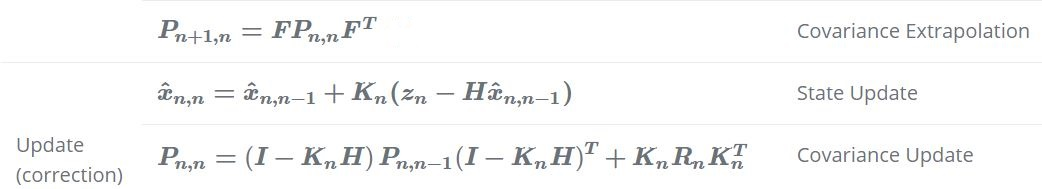
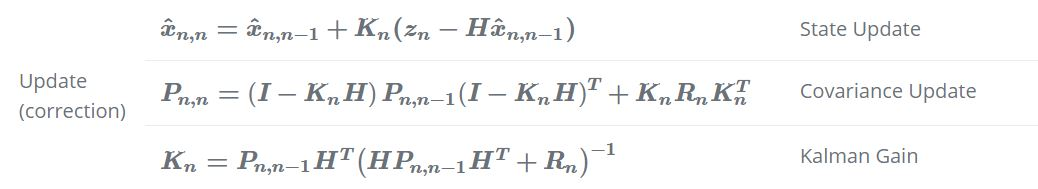
Readme completed

diff --git a/assets/index.html b/assets/index.html
@@ -27,24 +27,24 @@
 <form id="form">
     <div>
         <div>Initial Guess (Position in meters, Velocity in m/s)</div>
-        <div><input id="initial_guess_position" value="50"/> <input id="initial_guess_velocity" value="15"/></div>
+        <div><input id="initial_guess_position" value="0"/> <input id="initial_guess_velocity" value="4"/></div>
     </div>
 
     <div>
         <div>Initial State Covariance Matrix</div>
-        <div><input id="initial_guess_pos_variance" value="400"/> <input id="initial_guess_covariance1" value="0"/></div>
-        <div><input id="initial_guess_covariance2" value="0"/> <input id="initial_guess_vel_variance" value="100"/></div>
+        <div><input id="initial_guess_pos_variance" value="1"/> <input id="initial_guess_covariance1" value="0"/></div>
+        <div><input id="initial_guess_covariance2" value="0"/> <input id="initial_guess_vel_variance" value="2"/></div>
     </div>
 
     <div>
         <div>Delta Time in seconds</div>
-        <div><input id="delta_time" value="5"/></div>
+        <div><input id="delta_time" value="10"/></div>
     </div>
 
     <div>
         <div>Measurement Covariance Matrix</div>
-        <div><input id="measurement_pos_variance" value="25"/> <input id="measurement_covariance1" value="0"/></div>
-        <div><input id="measurement_covariance2" value="0"/> <input id="measurement_vel_variance" value="3"/></div>
+        <div><input id="measurement_pos_variance" value="100"/> <input id="measurement_covariance1" value="0"/></div>
+        <div><input id="measurement_covariance2" value="0"/> <input id="measurement_vel_variance" value="1"/></div>
     </div>
 
     <div>
@@ -54,11 +54,11 @@
             <button id="add" type="button">+</button>
         </div>
         <div id="measurements">
-            <div><input value="128"/> <input value="13"/></div>
-            <div><input value="201"/> <input value="11"/></div>
-            <div><input value="277"/> <input value="14"/></div>
-            <div><input value="349"/> <input value="16"/></div>
-            <div><input value="423"/> <input value="16"/></div>
+            <div><input value="49"/> <input value="3.8"/></div>
+            <div><input value="71"/> <input value="4.6"/></div>
+            <div><input value="128"/> <input value="3.4"/></div>
+            <div><input value="173"/> <input value="3.8"/></div>
+            <div><input value="209"/> <input value="4.2"/></div>
         </div>
     </div>
 

diff --git a/src/visualization.py b/src/visualization.py
@@ -7,7 +7,7 @@ def plot_output(plot_estimates, plot_uncertainties, plot_measurements):
 
     plt.style.use('seaborn')
     fig, axs = plt.subplots(4, 1, figsize=(10, 20), sharex='all',
-                            gridspec_kw={'height_ratios': [3.5, 1, 1, 1]}, constrained_layout=True)
+                            gridspec_kw={'height_ratios': [2, 1.5, 1, 1]}, constrained_layout=True)
     fig.suptitle("Kalman filter simulation output", fontsize=25)
 
     axs[0].plot(steps, plot_estimates[0], linestyle=':', marker='o', markersize=6, color='black',

diff --git a/Readme.md b/Readme.md
@@ -1,17 +1,17 @@
-# Kalman Filter
+# Unidimensional Kalman Filter Simulation
 The Kalman filter is a sequential estimation process that provides an optimal estimate 
 of the evolution of a system, given noisy measurements and a limited knowledge about the system. 
-The standard Kalman filter is designed for linear systems and is now widely 
+The standard filter is designed for linear systems and is now widely 
 used in many different applications, including Tracking Targets, navigation systems and much more.
+For simplicity, this particular simulation concerns the application of the kalman filter in 
+a one-dimensional system.
 
 ## Getting started
-The simulation can be used with the following requirements:
+The following requirements are needed to start the unidimensional Kalman filter simulation program:
 * Python3
 * Miniconda
 
-(It could work with Anaconda but it was not tested).
-
-To start the simulation, execute the following commands:
+The program is executed with the following commands:
 
 ```shell
 # Clone the repository
@@ -26,9 +26,28 @@ conda activate kalman
 python src/main.py
 ```
 
-After main, click on the link  (http://127.0.0.1:5000/) shown in console.
+The link shown in the console (http://127.0.0.1:5000/) opens a web page   
+with an interface needed to set the simulation parameters.
 
-# descrivere l'interfaccio
+<img src="image_equations/interface.JPG" />
+
+The required parameters are:
+* Initial Guess of Position and velocity,
+* Initial State Covariance Matrix,
+* Delta Time,
+* Measurements of Position and velocity, 
+* Measurement Covariance Matrix.
+
+(Details on the operation of the kalman filter and parameter settings 
+are given in the following documentation). 
+
+The number of measurements can vary from a minimum of 5: the (+) button adds more measurements
+while the (-) button removes them. To restore the default parameters, press the reset button.
+ 
+The simulation can be run by pressing the start button: the output is a plot showing 
+the estimated position, speed and their uncertainties. 
+
+It is important to make sure that none of the boxes are empty, before starting the simulation. 
 
 ### Tests
 
@@ -42,79 +61,95 @@ To run the test suite, use the following command:
 ```
 
 
-## Introduction
+## Kalman Filter Introduction
 Many systems are equipped with different sensors that measure various parameters of interest, typically 
 referred to as states. A sensor specifically produces measurements containing some uncertainty, so
 the standard Kalman filter combines all available information about a 
-linear dynamic system, both its dynamics model and any 
+linear dynamic system, both its dynamic model and any 
 measurements, into an optimal estimate of the states. All estimated states of the system 
-form the estimated state vector (X).
+form the estimated state vector (x).
 
 The key to a Kalman filter is that it also tracks an estimate of the uncertainty 
 associated with a state, in addition to providing an estimate of that state. The uncertainty 
-can be defined by a matrix known as the state covariance matrix (P), that combines the variances 
-associated with each of the state estimates and the correlation between the errors in the 
+can be defined by a matrix known as the state covariance matrix (P), that consists of the variances 
+associated with each of the state estimates as well as the correlation between the errors in the 
 state estimates.
 
-Thus, the Kalman filter is intended to optimize the estimate of the state vector, provided the state 
-covariance matrix, the system dynamic model, and noisy measurements (z) with their associated 
-measurement covariance matrix (R). This is achieved through a continuous two-step process: 
+Thus, the Kalman filter is designed to optimize the estimate of the state vector, provided 
+the system dynamic model and noisy measurements with their associated 
+measurement covariance matrix. This is achieved through a continuous two-step process: 
 1. propagate the state and covariance with the dynamic model from one time step to the next,
 2. perform a measurement update at each time step.
 
-During the propagation process, a mathematical model is applied over a specified period of time 
+###### Focus on Notation: 
+In the following equations, the State Vector and Estimate Uncertainty have two subscripts:
+* the first one corresponds to the time step of the estimate,
+* the second one is the time step of the last measurement considered to provide the same estimate.
+These two subscripts together identify which estimates have already been updated.
+
+Example:
+(n,n) indicates the estimate at time step n, updated with the measurement at the same time step.
+(n+1,n) indicates the predicted estimate at time step n+1, prior to the update step. 
+
+#### Propagate Step
+During the propagate step, a mathematical model is applied over a specified period of time 
 to predict the next state vector and state covariance matrix of the system. This model, implemented
-in the state transition matrix (F), defines how the state vector changes over time. In this step, 
+in the state transition matrix (F), defines how the state vector changes over time. So, 
 the next state vector and state covariance matrix can be predicted using the following equations, 
 with n indicating the current time step: 
 
 <img src="image_equations/prediction_equation.JPG" />
 
-* X  =  State Vector
-* P  =  Estimate Uncertainty
-* F  =  State Transition Matrix
+* X  =  State Vector,
+* P  =  State Covariance Matrix,
+* F  =  State Transition Matrix.
 
-(Notice the State Vector and Estimate Uncertainty have two subscripts. The first one corresponds
-to the time step of the estimate, while the second one is the time step of the last
-measurement considered in the same estimate).
-
-
+#### Update Step
 The propagation step is followed by the update step, which corrects the prediction of the 
 state vector and state covariance matrix with all available measurement data, in order to provide
 the best estimate of these parameters. Each of the measurements taken from a sensor is stored in 
-a measurement vector (Z), which typically requires a conversion in order to be compared to a state.
-The observation matrix (H) converts the state vector of the system (X) into the measurement vector 
-(Z) using linear transformations:
+a measurement vector (z), which typically requires a conversion in order to be compared to the state vector.
+The observation matrix (H) is used to convert the measurement vector of the system into the state vector 
+using linear transformations:
 
-<img src="image_equations/measurement_equation.JPG" />
+<img src="image_equations/measurement_equation.JPG" /> 
+(n indicates the time step)
 
-where n indicates the time step.
+* Z  =  Measurement Vector,
+* X  =  State Vector,
+* H  =  Observation Matrix.
 
-The Kalman filter assumes that the measurement errors in the system are Gaussian and zero-mean.
-The uncertainty in each of the measurements is defined by the measurement covariance matrix (R).
+The uncertainty in each of the measurements is defined by the measurement covariance matrix (R):
+the Kalman filter assumes that the measurement errors in the system are Gaussian and zero-mean.
 Once the measurement vector, observation matrix, and measurement covariance matrix 
 are available, the propagated state vector and state covariance matrix can be corrected 
 with this measurement information to provide an updated estimate of the states and state covariance.
 The combination of measurements and predictions requires a matrix known as the Kalman gain (K),  
 in order to weight the measurements by comparing the uncertainty of the measurement
-vector (R) with the current uncertainty of the state vector (P). The Kalman gain is designed 
-such that it minimizes the variance of the state estimates.
+vector with the current uncertainty of the state vector (predicted at the previous state). 
+The Kalman gain is designed such that it minimizes the variance of the state estimates.
 The following equations describe the update step, with n corresponding to the current time step:
 
 <img src="image_equations/update_equation.JPG" />
 
-(As in the propagation step, the State Vector and Estimate Uncertainty have two subscripts. 
-The first one refers to the time step of the estimate, while the second one is the time step 
-of the last measurement considered in the same estimate).
+* Z  =  Measurement Vector,
+* R  =  Measurement Covariance Matrix,
+* X  =  State Vector,
+* P  =  State Covariance Matrix,
+* K  =  Kalman Gain,
+* H  =  Observation Matrix,
+* I  =  Identity Matrix.
 
 
-To summarize, the Kalman filter has to be initialized with both an initial state estimate and its
-covariance matrix. Once initialized, it shall predict the system state and uncertainty at the 
-next time step. When the measurement is received, the Kalman filter updates the estimate and 
+#### Summary
+To perform an estimation process, the kalman filter has to to be initialized 
+with both an initial state estimate and its
+covariance matrix. Once initialized, it predicts the system state and uncertainty at the 
+next time step. When the measurement is received, the Kalman filter updates the predicted estimate and 
 its uncertainty. As well, the updated estimate is used to predict the 
 next state, and so on. 
 
-Thus, the application of a filter requires several input parameters:
+To summarize, the application of a Kalman filter requires several input parameters:
 * Initial state estimate,
 * Initial state covariance matrix,
 * State transition matrix,
@@ -126,12 +161,36 @@ The following diagram provides a complete picture of the Kalman Filter operation
 
 <img src="image_equations/sum_up.JPG" />
 
+A detailed description of the Kalman filter can be found here:
+https://www.kalmanfilter.net/default.aspx
 
-# Unidimensional simulation
-This simulation deals with the application of the kalman filter with the purpose of tracking 
-the motion of a whale, on which a GPS receiver has been placed to directly measure the position 
-and velocity. For simplicity, the motion is assumed to be along one dimension. In this particular 
-case, the following observation matrix (H) and state transition matrix (F) are used:
+
+## Unidimensional simulation of the motion of a whale
+The program shown here uses the kalman filter to track the movement of any object in 
+one-dimensional motion with constant velocity, as long as both position and velocity are measured.
+For example, let's track a whale just equipped with a GPS receiver.
+
+In this particular systems, the estimated state vector (X) includes position and velocity, 
+while the state covariance matrix (P) combines the variances associated with 
+each of the state estimates and the correlation between the position and velocity errors:
+
+<img src="image_equations/state_vector.JPG" />
+<img src="image_equations/state_cov_matrix.JPG" />
+
+* p  =  position,
+* v  =  velocity,
+* σ2p, σ2v  =  variances associated with position and velocity estimates respectively,
+* σpσv  =  correlation between the position and velocity errors.
+
+Also, the measurement vector and measurement covariance matrix have the same shape as the 
+state vector and state covariance matrix, respectively.
+
+The two covariance matrices play an important role in this program. For example, if the uncertainty 
+of the measurements is high the estimation algorithm is expected to give more weight to the dynamic 
+model and vice versa. 
+
+Considering an object with constant velocity, observation matrix (H) and 
+state transition matrix (F) are defined as:
 
 <img src="image_equations/observation_matrix.JPG" />
 <img src="image_equations/transition_matrix.JPG" />
@@ -139,11 +198,6 @@ case, the following observation matrix (H) and state transition matrix (F) are u
 where Δt is the interval between one estimate and the next one (which corresponds to the interval 
 between one measurement and the next one)
 
-So, in this particular system, the estimated state vector (X) includes position (p) and velocity (v), 
-while the state covariance matrix (P) combines the variances associated with 
-each of the state estimates (σ2p  and σ2v) and the correlation between the position and velocity errors
-σpσv.
+All required parameters can be set in the interface boxes.
 
-<img src="image_equations/state_vector.JPG" />
-<img src="image_equations/state_cov_matrix.JPG" />
-
+Notice the first measurement refers to the next time step from the initial guess.
